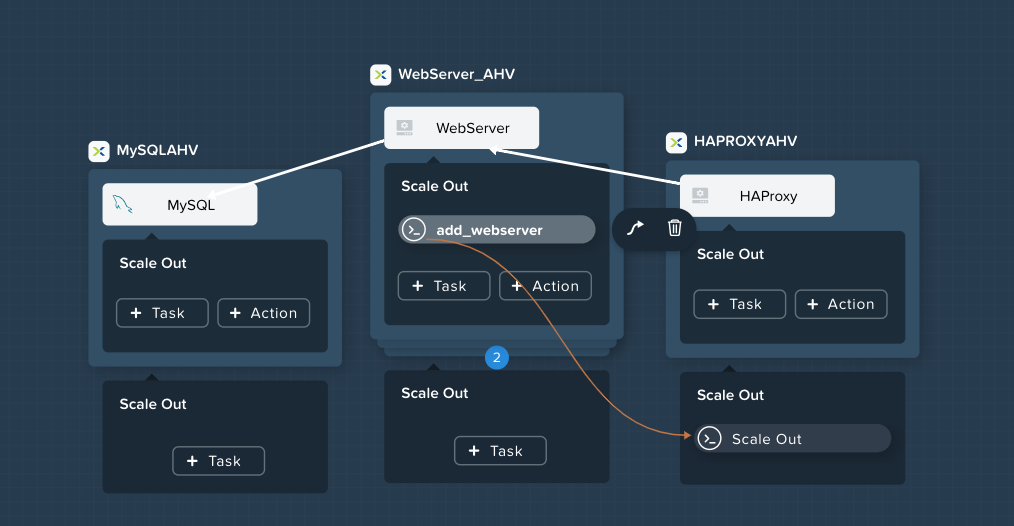
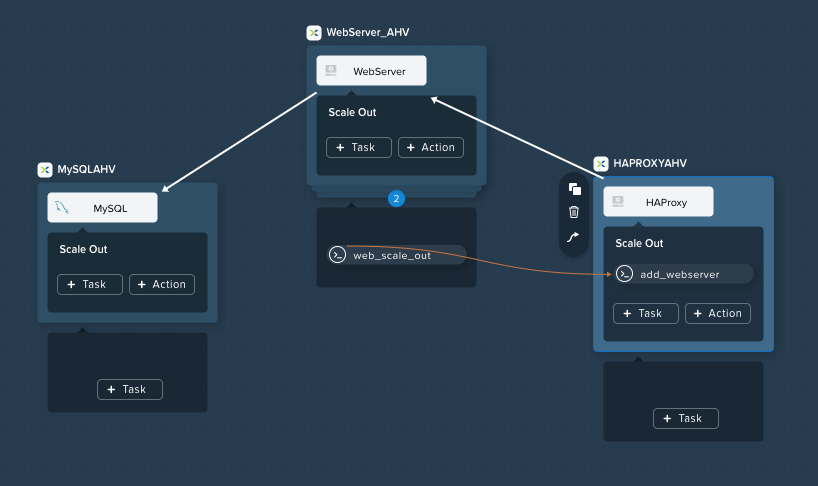
Updated 3TWA 510 Scale images and wording

Changed region(s): [[0.0306, 0.0309, 0.9474, 0.9568], [0.3667, 0.6481, 0.6418, 0.9259], [0.0611, 0.2469, 0.2139, 0.3086]]

diff --git a/calm_3twa_blueprint/calm_3twa_blueprint.rst b/calm_3twa_blueprint/calm_3twa_blueprint.rst
@@ -335,20 +335,17 @@ In the **Application Overview > Application Profile** section, expand the **Defa
 
 .. figure:: images/510scaleout1.png
 
-Next to the **WebServer** service tile, click the **+ Task** button, then fill out the following fields:
+In the box **below** the **WebServer** service tile, click the **+ Task** button to add a scaling task, and fill out the following fields:
 
 - **Task Name** - web_scale_out
-- **Type** - Scaling
 - **Scaling Type** - Scale Out
 - **Scaling Count** - 1
 
 .. figure:: images/510scaleout2.png
 
-Click **Save** and ensure no errors or warnings pop-up.  If they do, resolve the issue, and **Save** again.
-
 When a user later runs the **Scale Out** task, a new **WebServer** VM will get created, and the **Package Install** tasks for that service will be executed.  However, we do need to modify the **HAProxy** configuration in order to start taking advantage of this new web server.
 
-Next to the **HAProxy** service tile, click the **+ Task** button, then fill out the following fields:
+**Within** the **HAProxy** service tile, click the **+ Task** button, then fill out the following fields:
 
 - **Task Name** - add_webserver
 - **Type** - Execute
@@ -382,20 +379,17 @@ Again imagine you're the administrator of this Task Manager Application we're bu
 
 .. figure:: images/510scalein1.png
 
-Next to the **WebServer** service tile, click the **+ Task** button, then fill out the following fields:
+**Below** the **WebServer** service tile, click the **+ Task** button to add a scaling task, and fill out the following fields:
 
 - **Task Name** - web_scale_in
-- **Type** - Scaling
 - **Scaling Type** - Scale In
 - **Scaling Count** - 1
 
 .. figure:: images/510scalein2.png
 
-Click **Save** and ensure no errors or warnings pop-up.  If they do, resolve the issue, and **Save** again.
-
 When a user later runs the **Scale In** task, the last **WebServer** replica will have its **Package Uninstall** task run, the VM will be shut down, and then deleted, which will reclaim resources.  However, we do need to modify the **HAProxy** configuration to ensure that we're no longer sending traffic to the to-be-deleted Web Server.
 
-Next to the **HAProxy** service tile, click the **+ Task** button, then fill out the following fields:
+**Within** the **HAProxy** service tile, click the **+ Task** button, then fill out the following fields:
 
 - **Task Name** - del_webserver
 - **Type** - Execute
@@ -420,6 +414,7 @@ That script will grab the last address in the WebServer address array, and remov
 To solve this issue, on the **Workspace**, click on the **del_webserver** task, then the **Create Edge** arrow icon, and finally click on the **web_scale_in** task to draw the edge.  Afterwards your **Workspace** should look like this:
 
 .. figure:: images/510scalein3.png
+
 
 Click **Save** and ensure no errors or warnings pop-up.  If they do, resolve the issue, and **Save** again.
 
